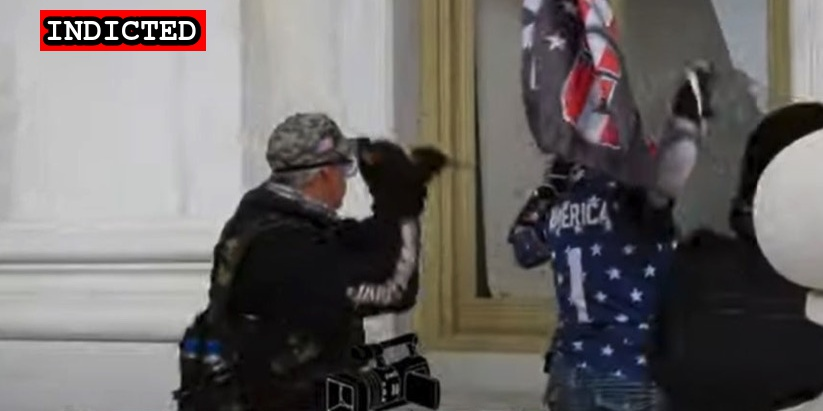
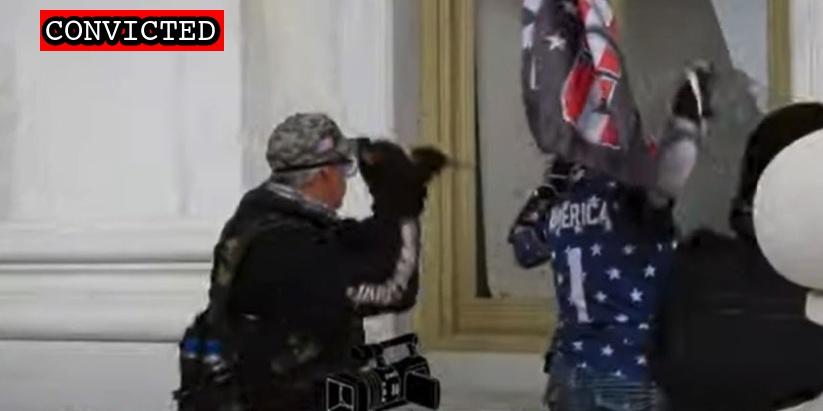
Add sentences

Changed region(s): [[0.0304, 0.0, 0.2734, 0.146]]

diff --git a/docs/_suspects/barton-shively.md b/docs/_suspects/barton-shively.md
@@ -37,19 +37,20 @@ published: true
 caseNumber: 1:21-cr-151
 videos:
 charges:
-  - code: 18 USC § 111(a)(1)
-    title: Assaulting, resisting, or impeding certain officers or employees
-    url: https://www.law.cornell.edu/uscode/text/18/111
-    felony: true
-  - code: 18 USC § 111(a)(1)
-    title: Assaulting, resisting, or impeding certain officers or employees
-    url: https://www.law.cornell.edu/uscode/text/18/111
-    felony: true
+- code: 18 USC § 111(a)(1)
+  title: Assaulting, resisting, or impeding certain officers or employees
+  url: https://www.law.cornell.edu/uscode/text/18/111
+  felony: true
+- code: 18 USC § 111(a)(1)
+  title: Assaulting, resisting, or impeding certain officers or employees
+  url: https://www.law.cornell.edu/uscode/text/18/111
+  felony: true
 sentence:
 ---
-
 - [News Report](https://www.fox43.com/article/news/local/central-pennsylvania-man-arrested-for-role-in-riot-at-us-capitol/521-578d8b83-fed6-4768-95a5-29526f1ebe90)
 - [Statement of Facts](https://www.justice.gov/opa/page/file/1357006/download)
 - [Complaint](https://www.justice.gov/opa/page/file/1357011/download)
 - [FBI Raid](https://www.pennlive.com/news/2021/01/central-pa-man-laid-hands-on-police-officers-during-capitol-riot-prosecutor.html)
 - [Indictment](https://www.justice.gov/usao-dc/case-multi-defendant/file/1460136/download)
+- [Plea Agreement](https://www.justice.gov/usao-dc/case-multi-defendant/file/1537281/download)
+- [Statement of Offense](https://www.justice.gov/usao-dc/case-multi-defendant/file/1537286/download)

diff --git a/docs/_suspects/kurt-peterson.md b/docs/_suspects/kurt-peterson.md
@@ -4,15 +4,18 @@ lastName: Peterson
 hashtag: OldAngryBird
 aka:
 residence: Kentucky
-status: Indicted
+status: Convicted
 date: 2021-06-16
 charged: 2021-06-16
 indicted: 2021-06-23
-convicted:
+convicted: 2022-09-21
+acquitted:
 sentenced:
 dismissed:
 deceased:
-plea_hearing:
+plea_hearing: 2022-09-21
+trial_date:
+trial_type:
 sentencing:
 age:
 occupation:
@@ -34,9 +37,16 @@ published: true
 caseNumber: 1:21-cr-427
 videos:
 charges:
+  - code: 18 USC § 1752(a)(4), (b)(1)(A)
+    title: Entering a restricted building or grounds with a dangerous or deadly weapon
+    url: https://www.law.cornell.edu/uscode/text/18/1752
+    felony: true
 sentence:
 ---
 
 - [News Report](https://www.whas11.com/article/news/crime/arrest-kurt-peterson-hodgenville-capitol-riot/417-10893ffb-00ba-4977-991a-3996fd089803)
 - [Statement of Facts](https://www.justice.gov/usao-dc/case-multi-defendant/file/1412806/download)
 - [Indictment](https://www.justice.gov/usao-dc/case-multi-defendant/file/1412801/download)
+- [Information](https://www.justice.gov/usao-dc/case-multi-defendant/file/1537291/download)
+- [Plea Agreement](https://www.justice.gov/usao-dc/case-multi-defendant/file/1537296/download)
+- [Statement of Offense](https://www.justice.gov/usao-dc/case-multi-defendant/file/1537301/download)

diff --git a/docs/_suspects/andrew-hernandez.md b/docs/_suspects/andrew-hernandez.md
@@ -4,15 +4,18 @@ lastName: Hernandez
 hashtag: AndrewAlanHernandez
 aka:
 residence: California
-status: Indicted
+status: Convicted
 date: 2021-02-23
 charged: 2021-02-23
 indicted: 2021-06-30
-convicted:
+convicted: 2022-09-21
+acquitted:
 sentenced:
 dismissed:
 deceased:
 plea_hearing: 2022-09-21
+trial_date:
+trial_type:
 sentencing:
 age: 44
 occupation:
@@ -34,6 +37,10 @@ published: true
 caseNumber: 1:21-cr-445
 videos:
 charges:
+  - code: 18 USC § 1512(c)(2),2
+    title: Obstruction of an Official Proceeding (Aiding and Abetting)
+    url: https://www.law.cornell.edu/uscode/text/18/1512
+    felony: true
 sentence:
 ---
 
@@ -41,3 +48,5 @@ sentence:
 - [Complaint](https://www.justice.gov/usao-dc/case-multi-defendant/file/1378681/download)
 - [Statement of Facts](https://www.justice.gov/usao-dc/case-multi-defendant/file/1378676/download)
 - [Indictment](https://www.justice.gov/usao-dc/case-multi-defendant/file/1410316/download)
+- [Plea Agreement](https://www.justice.gov/usao-dc/case-multi-defendant/file/1537271/download)
+- [Statement of Offense](https://www.justice.gov/usao-dc/case-multi-defendant/file/1537276/download)

diff --git a/docs/_suspects/reva-vincent.md b/docs/_suspects/reva-vincent.md
@@ -8,12 +8,12 @@ status: Convicted
 date: 2022-02-14
 charged: 2022-02-14
 indicted:
-convicted: 2022-04-22
+convicted: 2022-09-21
 acquitted:
 sentenced:
 dismissed:
 deceased:
-plea_hearing: 2022-04-22
+plea_hearing: 2022-09-21
 trial_date:
 trial_type:
 sentencing: 2022-09-21
@@ -34,7 +34,7 @@ description: Click for latest case details. Suspects innocent until proven guilt
 author: seditiontrack
 layout: suspect
 published: true
-caseNumber:
+caseNumber: 1:22-cr-51
 videos:
 charges:
   - code: 40 USC § 5104(e)(2)(G)
@@ -42,6 +42,10 @@ charges:
     url: https://www.law.cornell.edu/uscode/text/40/5104
     felony: false
 sentence:
+  - 2 years probation
+  - 60 hours community service
+  - $1500 fine
+  - $500 restitution
 ---
 
 - [News Report](https://www.courier-journal.com/story/news/crime/2022/05/05/us-capitol-riot-kentucky-woman-reva-vincent-pleads-guilty-jan-6-case/9657373002/)
